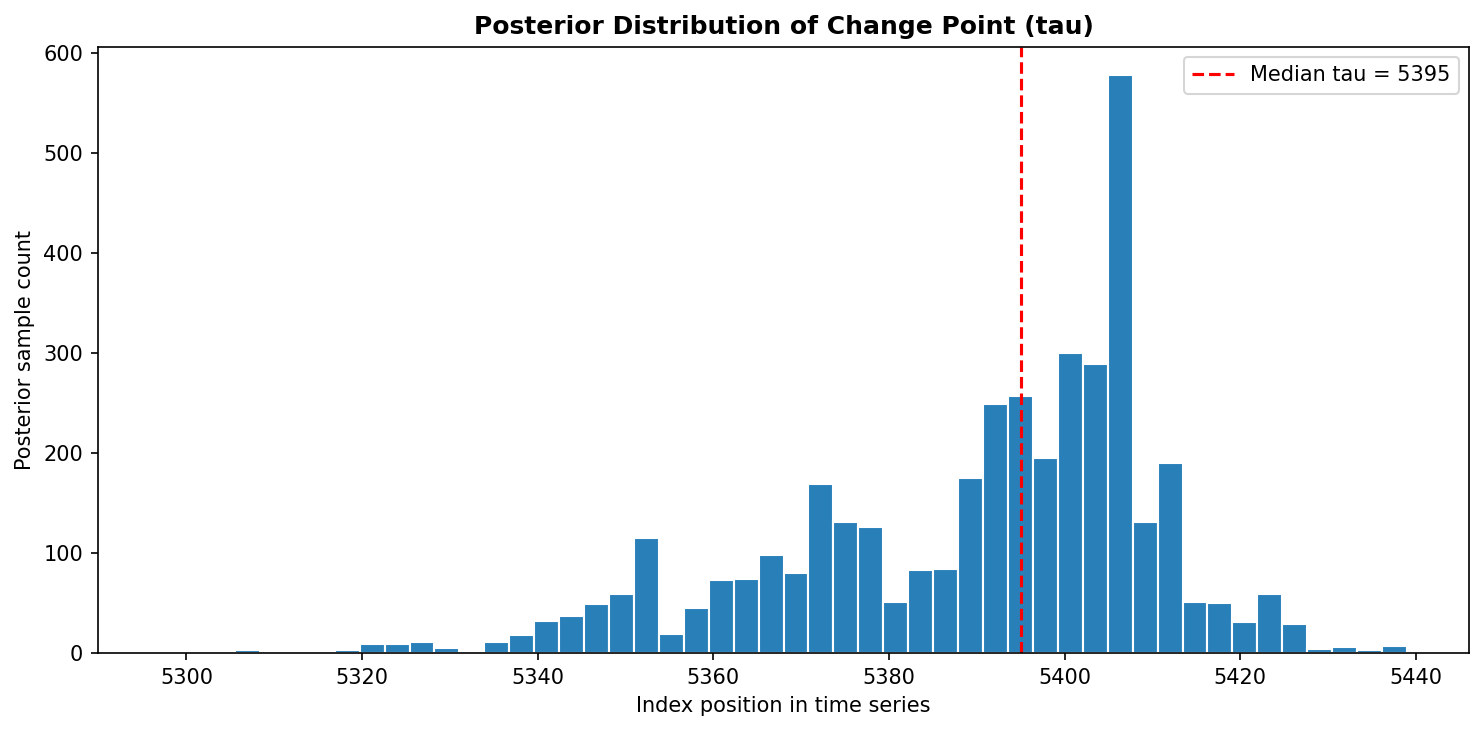
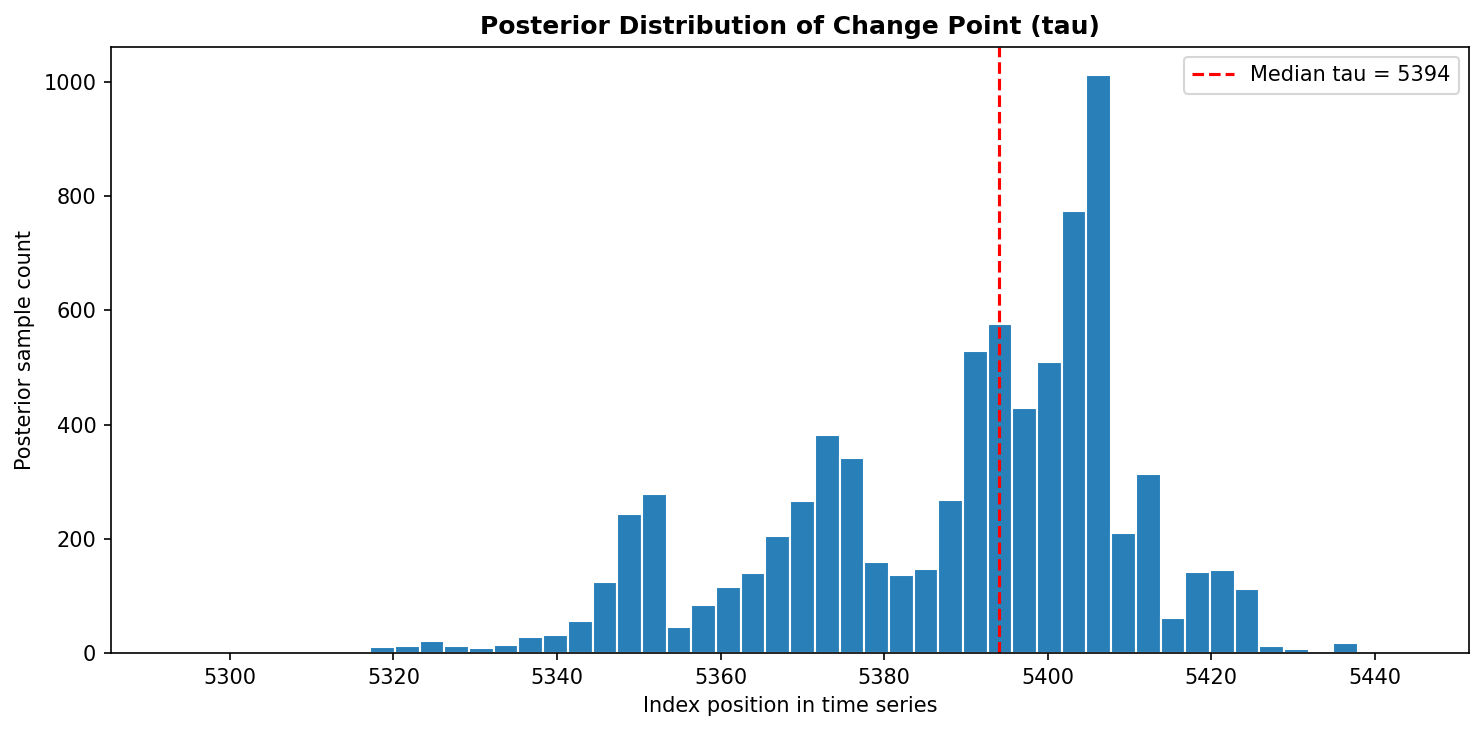
feat: Task 2 complete - trace plots, posterior comparisons, probabilistic statements, and local-window quantified impact (-43.97% price shift around 2008 GFC)

diff --git a/src/change_point.py b/src/change_point.py
@@ -40,7 +40,7 @@ def load_data(path=DATA_PATH):
         print(f"ERROR: {path} not found. Run src/data_loader.py first.")
         sys.exit(1)
     except pd.errors.ParserError as e:
-        print(f"ERROR: could not parse {path} - {e}")
+        print(f"ERROR: could not parse {path} — {e}")
         sys.exit(1)
 
     if "log_return" not in df.columns:
@@ -55,7 +55,7 @@ def load_events(path=EVENTS_PATH):
     try:
         events = pd.read_csv(path, parse_dates=["date"])
     except FileNotFoundError:
-        print(f"WARNING: {path} not found - change points will be reported without event context.")
+        print(f"WARNING: {path} not found — change points will be reported without event context.")
         return None
     return events
 
@@ -107,10 +107,10 @@ def check_convergence(trace):
     rhat_numeric = pd.to_numeric(summary["r_hat"], errors="coerce")
     max_rhat = rhat_numeric.max()
     if pd.isna(max_rhat):
-        print("WARNING: could not compute R-hat (NaN) - check sampler output above.")
+        print("WARNING: could not compute R-hat (NaN) — check sampler output above.")
         return summary
     if max_rhat > 1.01:
-        print(f"WARNING: max R-hat = {max_rhat:.4f} - chains may not have converged. "
+        print(f"WARNING: max R-hat = {max_rhat:.4f} — chains may not have converged. "
               f"Consider increasing `tune` or `draws`.")
     else:
         print(f"R-hat looks good (max = {max_rhat:.4f} <= 1.01).")
@@ -204,9 +204,106 @@ def plot_change_point(df, change_point_index, output_dir=OUTPUT_DIR):
     print(f"Saved change point plot -> {out_path}")
 
 
-def save_summary(result, matched_event, output_dir=OUTPUT_DIR):
-    """Save the change point result and matched event as a JSON summary."""
+def plot_trace_diagnostics(trace, output_dir=OUTPUT_DIR):
+    """Save trace plots for all parameters, used to visually check MCMC convergence
+    (alongside the numeric R-hat check in check_convergence)."""
+    pc = az.plot_trace(trace, var_names=["tau", "mu1", "mu2", "sigma1", "sigma2"])
+
+    out_path = os.path.join(output_dir, "trace_plots.png")
+    try:
+        pc.savefig(out_path)
+    except AttributeError:
+        # Fallback for older arviz versions where plot_trace returns a numpy array of axes
+        fig = pc.ravel()[0].figure
+        fig.savefig(out_path, dpi=150, bbox_inches="tight")
+        plt.close(fig)
+    print(f"Saved trace plots -> {out_path}")
+
+
+def plot_parameter_posteriors(trace, output_dir=OUTPUT_DIR):
+    """Plot posterior distributions for before/after mean and volatility, and report
+    probabilistic statements (e.g. P(volatility increased after the change point))."""
+    mu1 = trace.posterior["mu1"].values.flatten()
+    mu2 = trace.posterior["mu2"].values.flatten()
+    sigma1 = trace.posterior["sigma1"].values.flatten()
+    sigma2 = trace.posterior["sigma2"].values.flatten()
+
+    fig, axes = plt.subplots(1, 2, figsize=(13, 5))
+
+    axes[0].hist(mu1, bins=40, alpha=0.6, label="mu1 (before)", color="#2980b9")
+    axes[0].hist(mu2, bins=40, alpha=0.6, label="mu2 (after)", color="#e74c3c")
+    axes[0].set_title("Posterior: Mean Log Return, Before vs After", fontweight="bold", fontsize=11)
+    axes[0].legend()
+
+    axes[1].hist(sigma1, bins=40, alpha=0.6, label="sigma1 (before)", color="#2980b9")
+    axes[1].hist(sigma2, bins=40, alpha=0.6, label="sigma2 (after)", color="#e74c3c")
+    axes[1].set_title("Posterior: Volatility, Before vs After", fontweight="bold", fontsize=11)
+    axes[1].legend()
+
+    plt.tight_layout()
+    out_path = os.path.join(output_dir, "parameter_posteriors.png")
+    plt.savefig(out_path, dpi=150, bbox_inches="tight")
+    plt.close()
+    print(f"Saved parameter posterior plot -> {out_path}")
+
+    # Probabilistic statements directly from the posterior samples (not just point estimates)
+    p_vol_increased = float(np.mean(sigma2 > sigma1))
+    p_mean_increased = float(np.mean(mu2 > mu1))
+
+    print("\n=== Probabilistic Statements ===")
+    print(f"P(volatility after > volatility before) = {p_vol_increased:.3f}")
+    print(f"P(mean log return after > mean log return before) = {p_mean_increased:.3f}")
+
+    return {"p_volatility_increased": p_vol_increased, "p_mean_increased": p_mean_increased}
+
+
+def quantify_local_impact(df, change_point_index, window=90):
+    """Quantify the price/volatility shift in a symmetric window immediately around
+    the change point, rather than full-sample before/after averages (which get diluted
+    by a 35-year dataset). This is the number that belongs in an impact statement like
+    'price shifted from $X to $Y, a Z% change'.
+    """
+    start = max(0, change_point_index - window)
+    end = min(len(df), change_point_index + window)
+
+    before = df.iloc[start:change_point_index]
+    after = df.iloc[change_point_index:end]
+
+    if before.empty or after.empty:
+        return None
+
+    avg_price_before = float(before["Price"].mean())
+    avg_price_after = float(after["Price"].mean())
+    pct_change = ((avg_price_after - avg_price_before) / avg_price_before) * 100
+
+    vol_before = float(before["log_return"].std())
+    vol_after = float(after["log_return"].std())
+
+    result = {
+        "window_days": window,
+        "avg_price_before_window": round(avg_price_before, 2),
+        "avg_price_after_window": round(avg_price_after, 2),
+        "pct_price_change": round(pct_change, 2),
+        "volatility_before_window": round(vol_before, 5),
+        "volatility_after_window": round(vol_after, 5),
+    }
+
+    print(f"\n=== Quantified Local Impact (+/- {window} days around change point) ===")
+    print(f"Avg price before: ${result['avg_price_before_window']}  ->  after: ${result['avg_price_after_window']}"
+          f"  ({'+' if pct_change >= 0 else ''}{result['pct_price_change']}%)")
+    print(f"Volatility before: {result['volatility_before_window']}  ->  after: {result['volatility_after_window']}")
+
+    return result
+
+
+def save_summary(result, matched_event, local_impact=None, probabilistic=None, output_dir=OUTPUT_DIR):
+    """Save the change point result, matched event, local impact, and probabilistic
+    statements as a single JSON summary (consumed by the Task 3 dashboard API)."""
     summary = {**result, "matched_event": matched_event}
+    if local_impact:
+        summary["local_impact"] = local_impact
+    if probabilistic:
+        summary["probabilistic"] = probabilistic
     out_path = os.path.join(output_dir, "change_point_summary.json")
     with open(out_path, "w") as f:
         json.dump(summary, f, indent=2)
@@ -221,7 +318,7 @@ def main():
     events = load_events()
 
     print(f"Fitting change point model on {len(df)} log return observations...")
-    model, trace = build_and_sample_model(df["log_return"].values, draws=1000, tune=1000, chains=4, cores=1)
+    model, trace = build_and_sample_model(df["log_return"].values)
 
     check_convergence(trace)
 
@@ -237,11 +334,15 @@ def main():
         for k, v in matched_event.items():
             print(f"{k}: {v}")
     else:
-        print("\nNo event dataset available - change point reported without event context.")
+        print("\nNo event dataset available — change point reported without event context.")
 
     plot_tau_posterior(trace)
     plot_change_point(df, result["change_point_index"])
-    save_summary(result, matched_event)
+    plot_trace_diagnostics(trace)
+    probabilistic = plot_parameter_posteriors(trace)
+    local_impact = quantify_local_impact(df, result["change_point_index"])
+
+    save_summary(result, matched_event, local_impact, probabilistic)
 
     print("\nChange point analysis complete!")
 